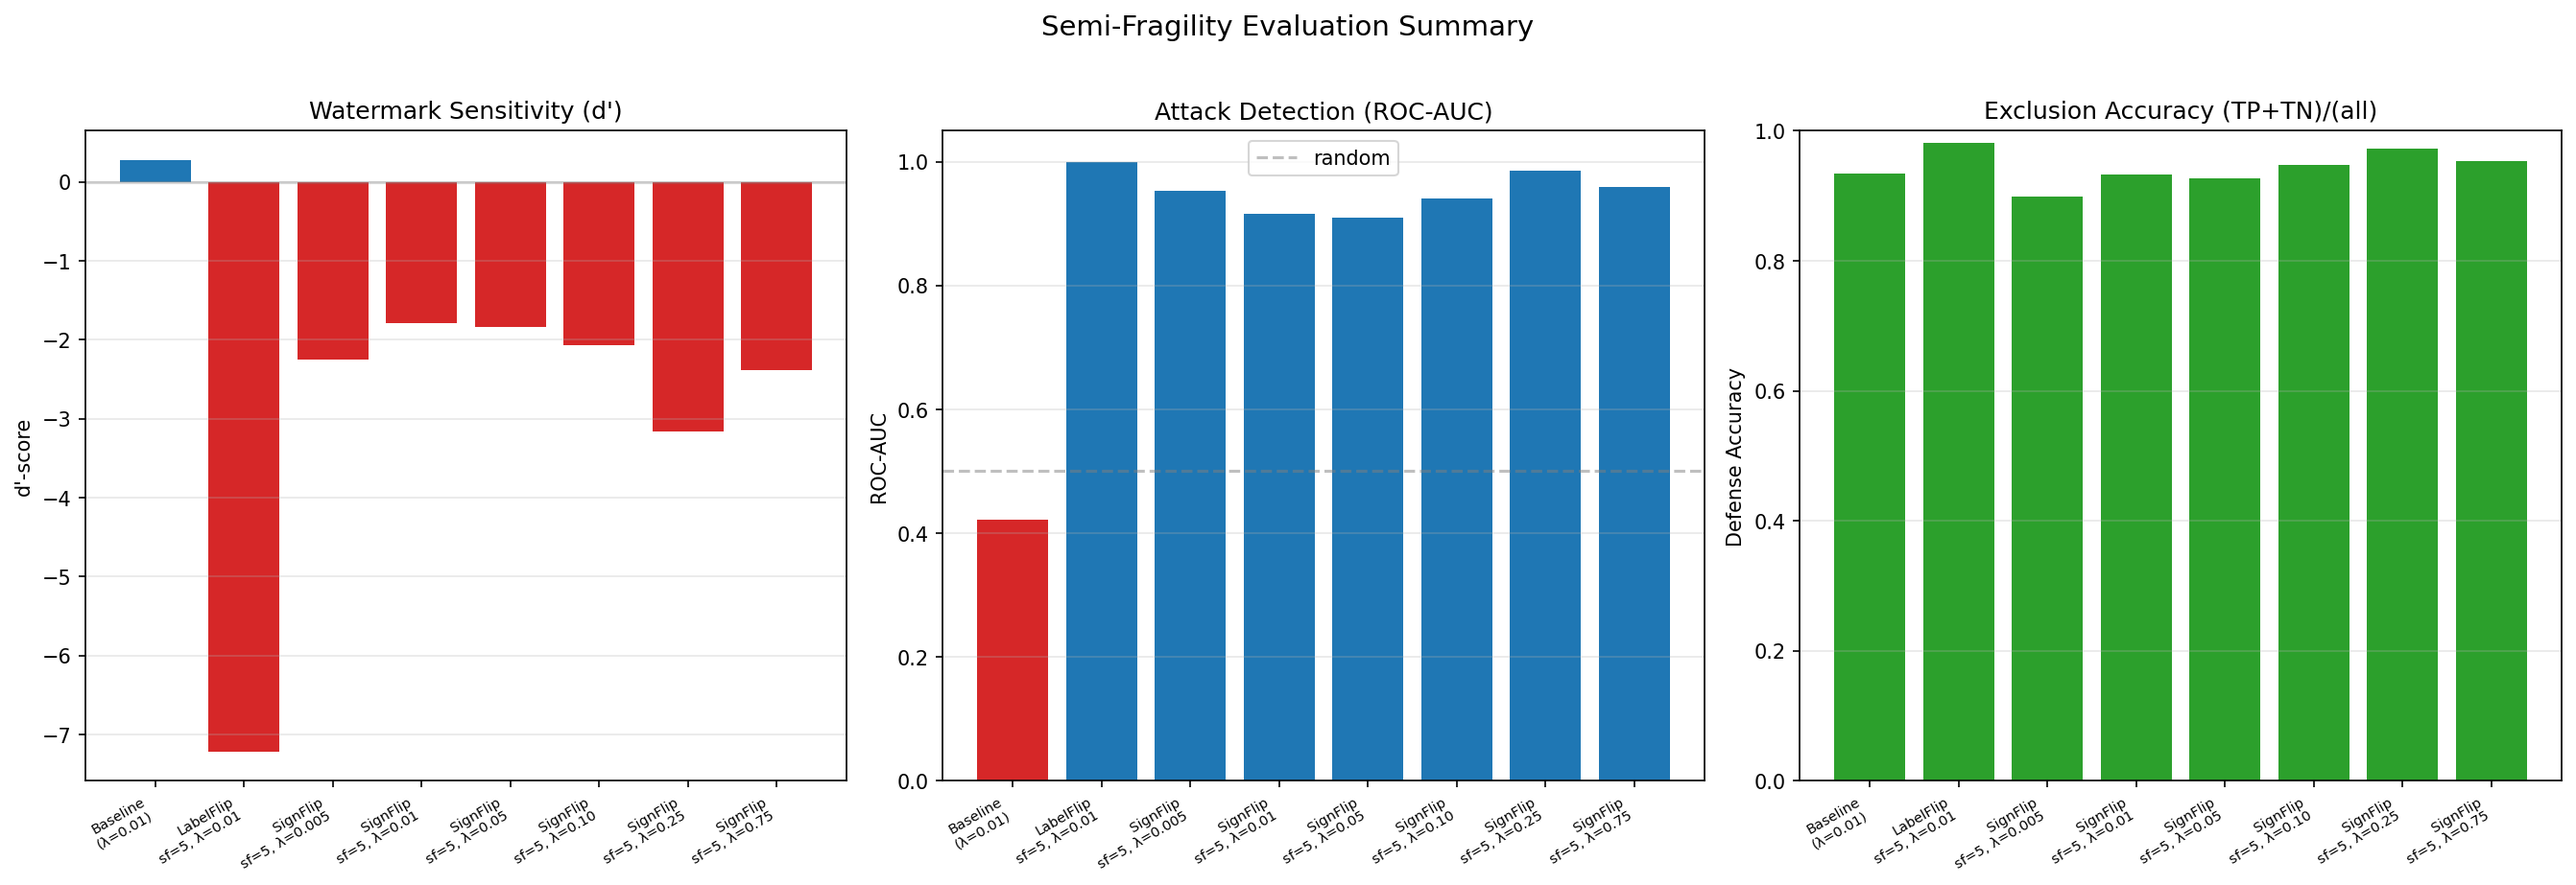
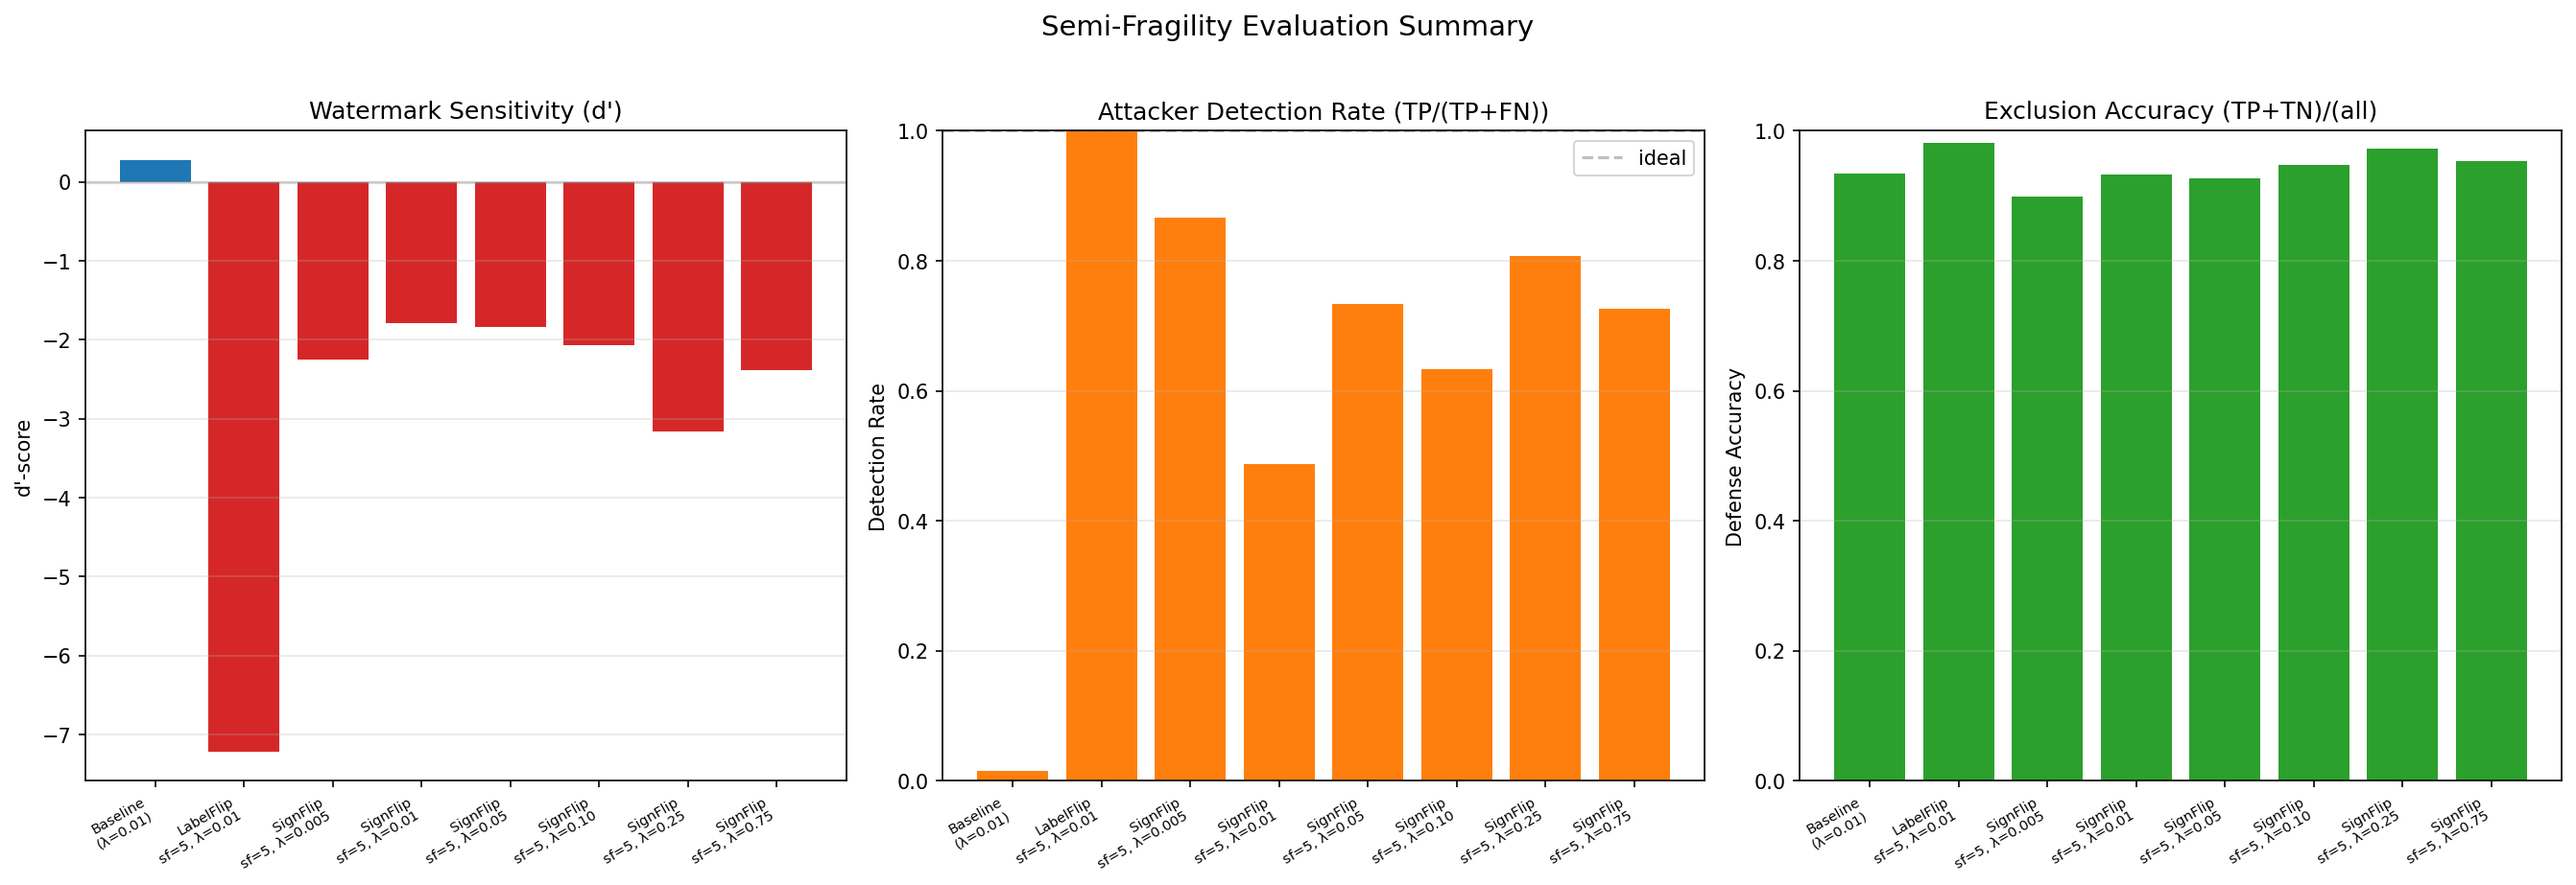
Replace ROC-AUC subplot with attacker detection rate

Changed region(s): [[0.3402, 0.1213, 0.6494, 0.8797], [0.3402, 0.4247, 0.3711, 0.4854], [0.3402, 0.3034, 0.3711, 0.3337]]

diff --git a/utility scripts/plot_evaluation.py b/utility scripts/plot_evaluation.py
@@ -254,8 +254,9 @@ def main():
         dprime = compute_dprime(all_honest_bers, all_attacker_bers)
         auc = compute_auc(all_honest_bers, all_attacker_bers)
         mean_tp = np.mean([e[0] for e in all_exclusions]) if all_exclusions else 0
-        mean_fp = np.mean([e[1] for e in all_exclusions]) if all_exclusions else 0
+        mean_fn = np.mean([e[3] for e in all_exclusions]) if all_exclusions else 0
         mean_acc_def = np.mean(all_accuracies) if all_accuracies else 0
+        att_det_rate = mean_tp / (mean_tp + mean_fn) if (mean_tp + mean_fn) > 0 else 0
 
         summary.append({
             "label": label.replace("\n", " "),
@@ -263,9 +264,10 @@ def main():
             "lambda": lam,
             "d_prime": dprime,
             "auc": auc,
+            "detection_rate": att_det_rate,
             "defense_acc": mean_acc_def,
             "mean_tp": mean_tp,
-            "mean_fp": mean_fp,
+            "mean_fn": mean_fn,
         })
         print(f"    d'={dprime:.4f} AUC={auc:.4f} defense_acc={mean_acc_def:.2%}")
 
@@ -308,15 +310,15 @@ def main():
     axes_sum[0].axhline(y=0, color="gray", linestyle="-", alpha=0.3)
     axes_sum[0].grid(True, alpha=0.3, axis="y")
 
-    # ROC-AUC
-    aucs = [s["auc"] for s in summary]
-    colors = ["C0" if np.isfinite(a) and a > 0.5 else "C3" for a in aucs]
-    axes_sum[1].bar(x, [a if np.isfinite(a) else 0.5 for a in aucs], color=colors)
-    axes_sum[1].set_ylabel("ROC-AUC")
-    axes_sum[1].set_title("Attack Detection (ROC-AUC)")
+    # Attacker detection rate (TPR = TP / (TP + FN))
+    det_rates = [s["detection_rate"] for s in summary]
+    axes_sum[1].bar(x, det_rates, color="C1")
+    axes_sum[1].set_ylabel("Detection Rate")
+    axes_sum[1].set_title("Attacker Detection Rate (TP/(TP+FN))")
     axes_sum[1].set_xticks(x)
     axes_sum[1].set_xticklabels(short_labels, fontsize=7, rotation=30, ha="right")
-    axes_sum[1].axhline(y=0.5, color="gray", linestyle="--", alpha=0.5, label="random")
+    axes_sum[1].set_ylim(0, 1)
+    axes_sum[1].axhline(y=1.0, color="gray", linestyle="--", alpha=0.5, label="ideal")
     axes_sum[1].legend()
     axes_sum[1].grid(True, alpha=0.3, axis="y")
 
@@ -338,13 +340,13 @@ def main():
 
     # Print summary table
     print("\n  === SUMMARY TABLE ===")
-    print(f"  {'Config':<30} {'d-prime':>8} {'AUC':>8} {'Def.Acc':>10}")
-    print(f"  {'-'*30} {'-'*8} {'-'*8} {'-'*10}")
+    print(f"  {'Config':<30} {'d-prime':>8} {'Det.Rate':>10} {'Def.Acc':>10}")
+    print(f"  {'-'*30} {'-'*8} {'-'*10} {'-'*10}")
     for s in summary:
         dp = f"{s['d_prime']:.4f}" if np.isfinite(s['d_prime']) else "N/A"
-        au = f"{s['auc']:.4f}" if np.isfinite(s['auc']) else "N/A"
+        dr = f"{s['detection_rate']:.2%}"
         da = f"{s['defense_acc']:.2%}"
-        print(f"  {s['label']:<30} {dp:>8} {au:>8} {da:>10}")
+        print(f"  {s['label']:<30} {dp:>8} {dr:>10} {da:>10}")
 
 
 if __name__ == "__main__":
